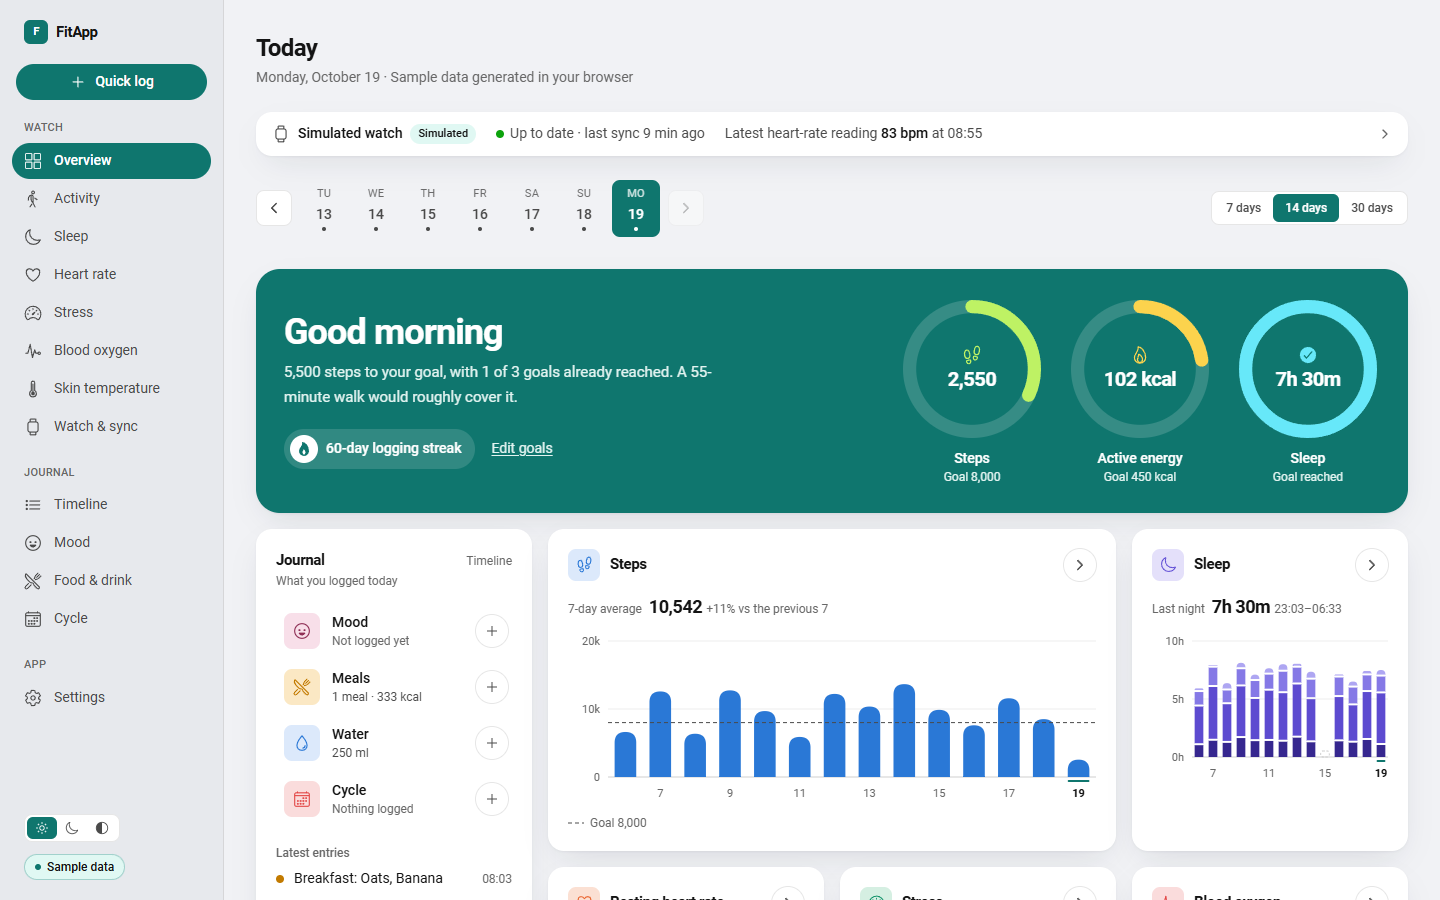
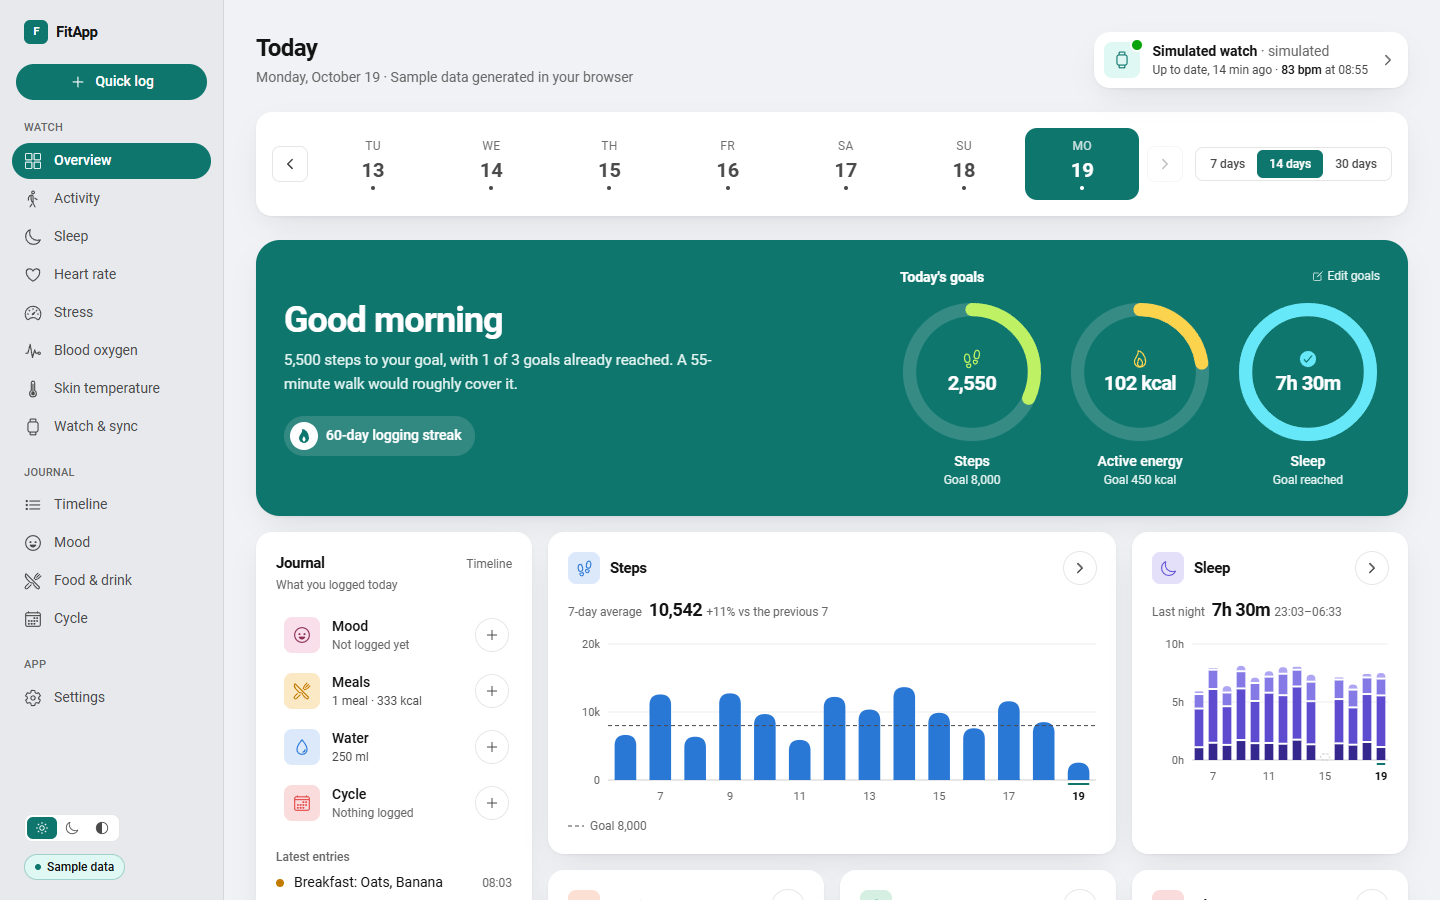
Compact watch status card, larger calendar, goals header
- The watch status becomes a small two-line card in the page header (top
  right): device, sync state and the latest heart-rate reading.
- On the overview the date strip gets its own full-width card with larger
  day chips.
- Edit goals moves into a Today's goals header above the donuts.

diff --git a/frontend-fitapp/src/components/WatchStatus.vue b/frontend-fitapp/src/components/WatchStatus.vue
@@ -1,23 +1,22 @@
 <template>
-  <RouterLink
-    to="/device"
-    class="mb-6 flex flex-wrap items-center gap-x-5 gap-y-2 card px-4 py-3 text-sm"
-    aria-label="Watch and connection details"
-  >
-    <span class="flex items-center gap-2 font-medium">
-      <ion-icon :icon="watchOutline" aria-hidden="true" class="text-lg text-ink-2" />
-      {{ source?.device ?? source?.name ?? 'No watch data source' }}
-      <span v-if="mode.isDemo" class="rounded-full bg-accent-soft px-2 py-0.5 text-[11px] font-medium text-ink">Simulated</span>
+  <RouterLink to="/device" class="card group flex items-center gap-3 py-2.5 pr-3 pl-2.5" aria-label="Watch and connection details">
+    <span class="relative grid size-9 shrink-0 place-items-center rounded-lg bg-accent-soft text-accent" aria-hidden="true">
+      <ion-icon :icon="watchOutline" class="text-lg" />
+      <span class="absolute -top-0.5 -right-0.5 size-2.5 rounded-full ring-2 ring-[var(--surface)]" :class="dotClass" />
     </span>
-    <span class="flex items-center gap-1.5 text-ink-2">
-      <span class="size-2 rounded-full" :class="dotClass" aria-hidden="true" />
-      {{ SYNC_LABELS[state] }}<template v-if="status?.lastIngestedAt"> · last sync {{ formatRelative(status.lastIngestedAt) }}</template>
+    <span class="min-w-0">
+      <span class="block truncate text-sm font-semibold">
+        {{ source?.device ?? source?.name ?? 'No watch data source' }}<span v-if="mode.isDemo" class="font-normal text-muted"> · simulated</span>
+      </span>
+      <span class="block truncate text-xs text-ink-2">
+        {{ SYNC_LABELS[state] }}<template v-if="status?.lastIngestedAt">, {{ formatRelative(status.lastIngestedAt) }}</template>
+        <template v-if="status?.latestHeartRate">
+          · <span class="tabular font-medium text-ink">{{ status.latestHeartRate.bpm }} bpm</span> at {{ formatClock(status.latestHeartRate.at)
+          }}<template v-if="status.latestHeartRate.at.slice(0, 10) !== fitness.today">, {{ formatShortDate(status.latestHeartRate.at.slice(0, 10)) }}</template>
+        </template>
+      </span>
     </span>
-    <span v-if="status?.latestHeartRate" class="text-ink-2">
-      Latest heart-rate reading <span class="tabular font-medium text-ink">{{ status.latestHeartRate.bpm }} bpm</span>
-      at {{ formatClock(status.latestHeartRate.at) }}<template v-if="status.latestHeartRate.at.slice(0, 10) !== fitness.today">, {{ formatShortDate(status.latestHeartRate.at.slice(0, 10)) }}</template>
-    </span>
-    <ion-icon :icon="chevronForwardOutline" aria-hidden="true" class="ml-auto text-muted" />
+    <ion-icon :icon="chevronForwardOutline" aria-hidden="true" class="shrink-0 text-muted transition-transform duration-150 group-hover:translate-x-0.5" />
   </RouterLink>
 </template>
 

diff --git a/frontend-fitapp/src/components/CalendarComp.vue b/frontend-fitapp/src/components/CalendarComp.vue
@@ -14,16 +14,19 @@
         :aria-pressed="day.date === modelValue"
         :aria-label="`${formatLongDate(day.date)}${day.date === today ? ', today' : ''}${hasData(day.date) ? '' : ', no data'}`"
         :data-date="day.date"
-        class="flex min-w-0 flex-col items-center gap-0.5 rounded-lg py-1.5 text-center transition-colors duration-150 disabled:cursor-not-allowed disabled:opacity-35"
-        :class="
+        class="flex min-w-0 flex-col items-center gap-0.5 text-center transition-colors duration-150 disabled:cursor-not-allowed disabled:opacity-35"
+        :class="[
+          large ? 'rounded-xl py-2.5' : 'rounded-lg py-1.5',
           day.date === modelValue
             ? 'bg-accent text-accent-ink'
-            : 'text-ink-2 hover:enabled:bg-surface hover:enabled:text-ink'
-        "
+            : large
+              ? 'text-ink-2 hover:enabled:bg-page hover:enabled:text-ink'
+              : 'text-ink-2 hover:enabled:bg-surface hover:enabled:text-ink',
+        ]"
         @click="emit('update:modelValue', day.date)"
       >
-        <span class="text-[11px] uppercase tracking-wide opacity-80">{{ day.weekday }}</span>
-        <span class="tabular text-sm font-medium" :class="day.date === today && day.date !== modelValue ? 'text-accent' : ''">{{ day.dayOfMonth }}</span>
+        <span class="uppercase tracking-wide opacity-80" :class="large ? 'text-xs' : 'text-[11px]'">{{ day.weekday }}</span>
+        <span class="tabular font-medium" :class="[large ? 'text-xl font-semibold' : 'text-sm', day.date === today && day.date !== modelValue ? 'text-accent' : '']">{{ day.dayOfMonth }}</span>
         <span
           class="size-1 rounded-full"
           :class="hasData(day.date) ? (day.date === modelValue ? 'bg-accent-ink' : 'bg-ink-2') : 'bg-transparent'"
@@ -50,6 +53,8 @@ const props = defineProps<{
   modelValue: ISODate
   today: ISODate
   hasData: (date: ISODate) => boolean
+  /** Bigger chips for the overview, where the strip sits in its own card. */
+  large?: boolean
 }>()
 const emit = defineEmits<{ 'update:modelValue': [ISODate] }>()
 

diff --git a/frontend-fitapp/src/components/TodayNudge.vue b/frontend-fitapp/src/components/TodayNudge.vue
@@ -11,13 +11,18 @@
           <span><span class="tabular">{{ streak }}</span>-day logging streak</span>
         </span>
         <PrimaryButton v-if="journal.loaded && !loggedToday" label="Log how you feel" @click="ui.openQuickLog('choose')" />
-        <RouterLink to="/settings" class="px-2 text-sm text-ink-2 underline underline-offset-2 hover:text-ink">Edit goals</RouterLink>
       </div>
     </div>
 
     <!-- One donut per goal: the ring shows progress, the centre names it and gives the value. -->
     <div class="shrink-0">
-      <ul class="grid grid-cols-3 gap-3 sm:gap-6" aria-label="Goals today">
+      <div class="mb-3 flex items-baseline justify-between gap-4">
+        <h2 id="goals-today" class="text-sm font-semibold">Today's goals</h2>
+        <RouterLink to="/settings" class="inline-flex items-center gap-1 text-xs text-ink-2 hover:text-ink">
+          <ion-icon :icon="createOutline" aria-hidden="true" />Edit goals
+        </RouterLink>
+      </div>
+      <ul class="grid grid-cols-3 gap-3 sm:gap-6" aria-labelledby="goals-today">
         <li v-for="(r, i) in rings" :key="r.label" class="flex flex-col items-center text-center">
           <div class="relative size-[6.5rem] sm:size-36">
             <svg viewBox="0 0 120 120" class="size-full -rotate-90" aria-hidden="true">
@@ -54,7 +59,7 @@
 <script setup lang="ts">
 import { computed } from 'vue'
 import { IonIcon } from '@ionic/vue'
-import { checkmarkCircle, flame } from 'ionicons/icons'
+import { checkmarkCircle, createOutline, flame } from 'ionicons/icons'
 import { ICONS } from '@/components/metricIcons'
 import PrimaryButton from '@/components/PrimaryButton.vue'
 import { progress } from '@/data/derive'

diff --git a/frontend-fitapp/src/components/DateToolbar.vue b/frontend-fitapp/src/components/DateToolbar.vue
@@ -1,7 +1,8 @@
 <template>
-  <div class="mb-8 flex flex-col gap-3 md:flex-row md:items-center">
+  <div class="flex flex-col gap-3 md:flex-row md:items-center" :class="large ? '' : 'mb-8'">
     <CalendarComp
-      class="md:max-w-md md:flex-1"
+      :class="large ? 'md:flex-1' : 'md:max-w-md md:flex-1'"
+      :large="large"
       :model-value="fitness.selectedDate"
       :today="fitness.today"
       :has-data="hasData"
@@ -27,6 +28,6 @@ import CalendarComp from '@/components/CalendarComp.vue'
 import RangeTabs from '@/components/RangeTabs.vue'
 import { useFitnessData } from '@/composables/useFitnessData'
 
-withDefaults(defineProps<{ showRange?: boolean }>(), { showRange: true })
+withDefaults(defineProps<{ showRange?: boolean; large?: boolean }>(), { showRange: true, large: false })
 const { fitness, hasData } = useFitnessData()
 </script>

diff --git a/frontend-fitapp/src/views/OverviewPage.vue b/frontend-fitapp/src/views/OverviewPage.vue
@@ -1,9 +1,9 @@
 <template>
   <AppShell :title="fitness.isToday ? 'Today' : formatLongDate(fitness.selectedDate)">
+    <template #actions><WatchStatus class="w-full sm:w-auto sm:max-w-sm" /></template>
     <template #subtitle>{{ fitness.isToday ? `${formatLongDate(fitness.today)} · ` : '' }}{{ freshness }}</template>
     <DataState>
-      <WatchStatus />
-      <DateToolbar />
+      <div class="card mb-6 p-3 sm:p-4"><DateToolbar large /></div>
       <div class="stagger grid gap-4">
         <TodayNudge v-if="fitness.isToday" :day="day" />
         <!-- Today the hero shows goal progress; other days get the tiles. -->
